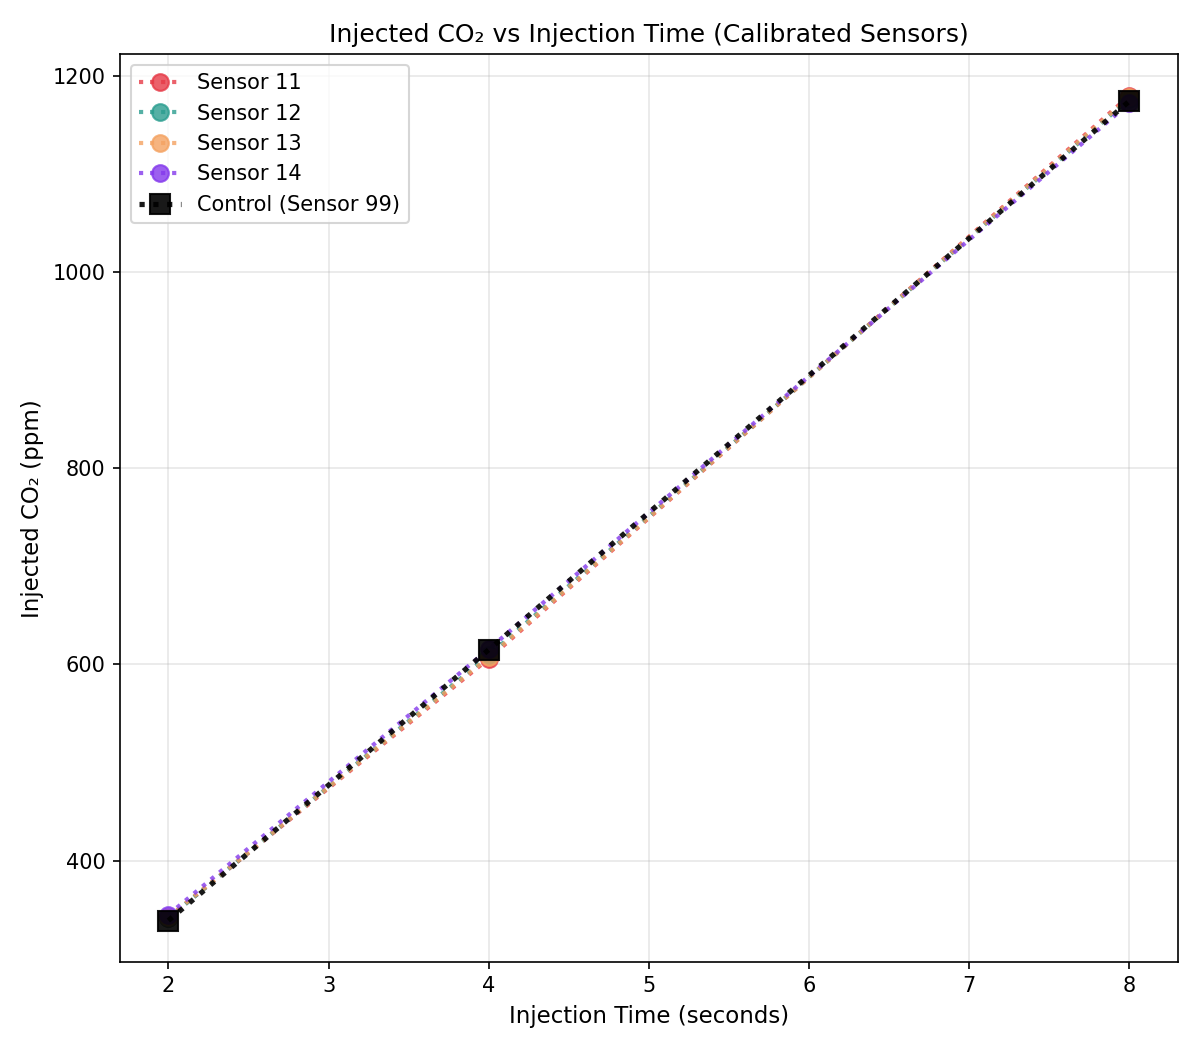
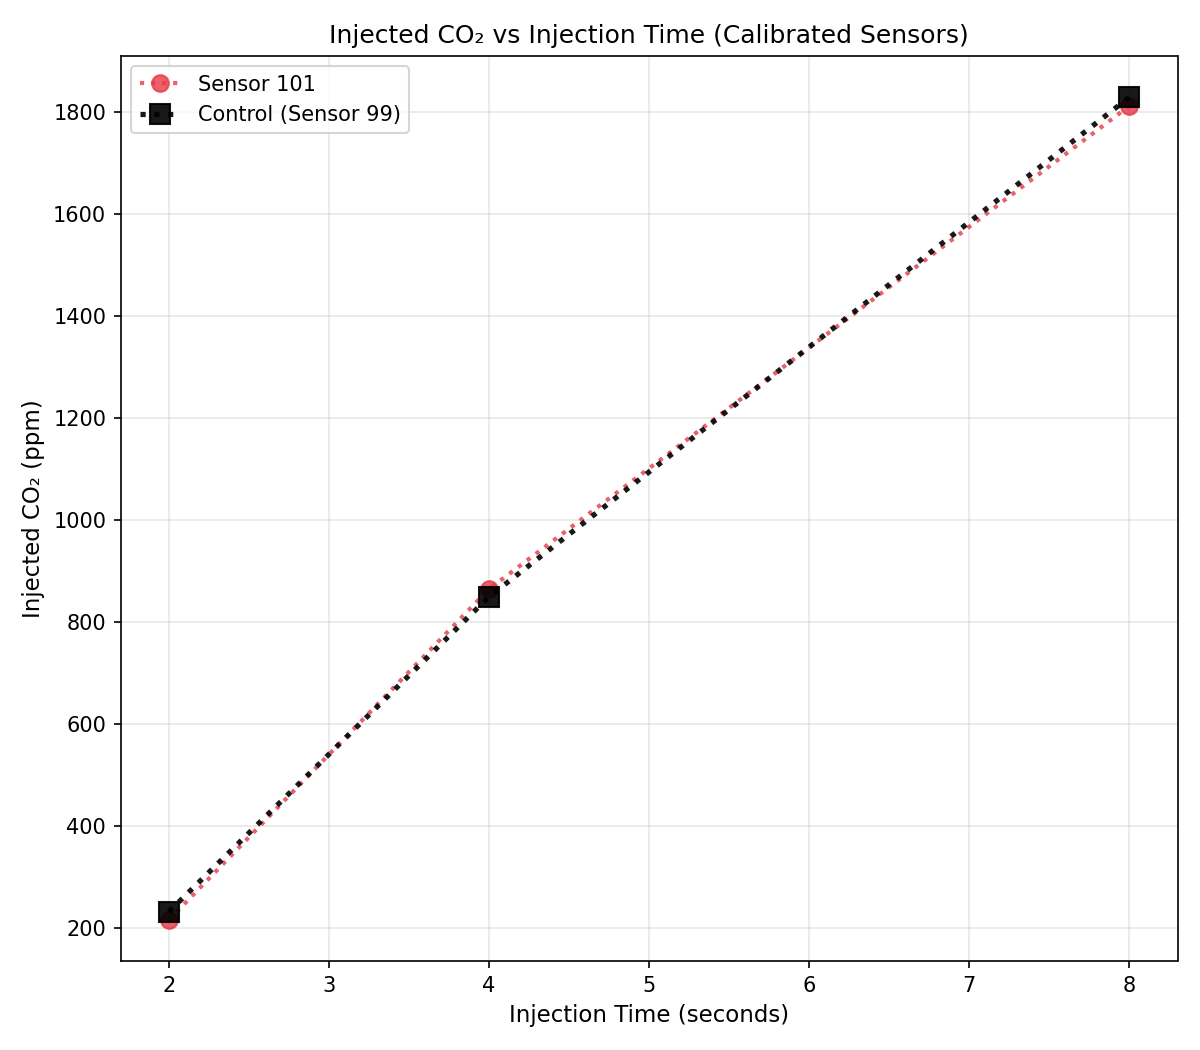
add option to skip slop adjust and add more graph plots

diff --git a/Tongdy_Calibration/Script_OLS/ols_sensors.py b/Tongdy_Calibration/Script_OLS/ols_sensors.py
@@ -7,32 +7,33 @@ import pandas as pd
 import matplotlib.pyplot as plt
 
 INLINE_DATA = [
-    {"experiment": 1, "sensor_id": 11,  "baseline": 435.1, "exposure": 754.1, "post_vent": 434.9, "injection_time": 2},
-    {"experiment": 1, "sensor_id": 12,  "baseline": 481.33, "exposure": 807, "post_vent": 481, "injection_time": 2},
-    {"experiment": 1, "sensor_id": 13,  "baseline": 438.92, "exposure": 760.8, "post_vent": 440.9, "injection_time": 2},
-    {"experiment": 1, "sensor_id": 14,  "baseline": 674.5, "exposure": 1029.6, "post_vent": 676, "injection_time": 2},
-    {"experiment": 1, "sensor_id": 99, "baseline": 516, "exposure": 855, "post_vent": 520, "injection_time": 2},
+    {"experiment": 1, "sensor_id": 101,  "baseline": 536, "exposure": 751, "post_vent": 576, "injection_time": 2},
+    {"experiment": 1, "sensor_id": 99, "baseline": 571, "exposure": 802, "post_vent": 620, "injection_time": 2},
 
-    {"experiment": 2, "sensor_id": 11,  "baseline": 433.44, "exposure": 998.45, "post_vent": 435.3, "injection_time": 4},
-    {"experiment": 2, "sensor_id": 12,  "baseline": 478.5, "exposure": 1059.36, "post_vent": 485.91, "injection_time": 4},
-    {"experiment": 2, "sensor_id": 13,  "baseline": 436.7, "exposure": 1007.55, "post_vent": 443.73, "injection_time": 4},
-    {"experiment": 2, "sensor_id": 14,  "baseline": 674, "exposure": 1307.64, "post_vent": 683, "injection_time": 4},
-    {"experiment": 2, "sensor_id": 99, "baseline": 519, "exposure": 1134, "post_vent": 526, "injection_time": 4},
+    {"experiment": 2, "sensor_id": 101,  "baseline": 581, "exposure": 1445, "post_vent": 610, "injection_time": 4},
+    {"experiment": 2, "sensor_id": 99, "baseline": 624, "exposure": 1473, "post_vent": 652, "injection_time": 4},
 
-    {"experiment": 3, "sensor_id": 11,  "baseline": 434.58, "exposure": 1534.5, "post_vent": 452.22, "injection_time": 8},
-    {"experiment": 3, "sensor_id": 12,  "baseline": 484.17, "exposure": 1605.8, "post_vent": 496.67, "injection_time": 8},
-    {"experiment": 3, "sensor_id": 13,  "baseline": 442.67, "exposure": 1549.6, "post_vent": 458.0, "injection_time": 8},
-    {"experiment": 3, "sensor_id": 14,  "baseline": 682.73, "exposure": 1888.89, "post_vent": 696.3, "injection_time": 8},
-    {"experiment": 3, "sensor_id": 99, "baseline": 525, "exposure": 1699, "post_vent": 543, "injection_time": 8},
+    {"experiment": 3, "sensor_id": 101,  "baseline": 611, "exposure": 2423, "post_vent": 652, "injection_time": 8},
+    {"experiment": 3, "sensor_id": 99, "baseline": 658, "exposure": 2487, "post_vent": 707, "injection_time": 8},
 ]
 # =========================
 
 PHASES = ["baseline", "exposure", "post_vent"]
 CONTROL_DEFAULT = 99
 
-def linreg(x, y):
-    b, a = np.polyfit(x, y, 1)
-    yhat = a + b * x
+def linreg(x, y, force_slope_one=False):
+    if force_slope_one:
+        # Offset-only calibration: y = x + offset
+        # Find offset that minimizes error: offset = mean(y - x)
+        offset = float((y - x).mean())
+        a = offset  # intercept
+        b = 1.0     # slope fixed at 1.0
+        yhat = a + b * x
+    else:
+        # Standard OLS with both slope and intercept
+        b, a = np.polyfit(x, y, 1)
+        yhat = a + b * x
+    
     resid = y - yhat
     ss_res = float((resid**2).sum())
     ss_tot = float(((y - y.mean())**2).sum())
@@ -162,7 +163,61 @@ def plot_injected_co2_vs_time(df, sensor_fits, title, outpath, apply_calibration
     plt.savefig(outpath, dpi=150)
     plt.close()
 
-def run(outdir: Path, control_id):
+
+def plot_absolute_co2_vs_time(df, sensor_fits, title, outpath, apply_calibration=False, control_id=99):
+    fig, axes = plt.subplots(2, 1, figsize=(10, 10))
+    
+    colors = ['#E63946', '#2A9D8F', '#F4A261', '#8338EC', '#3A86FF', '#FB5607']
+    phases = ['baseline', 'exposure']
+    phase_labels = ['Baseline CO₂ Levels', 'Exposure CO₂ Levels']
+    
+    sensors = sorted([s for s in df['sensor_id'].unique() if s != control_id])
+    
+    for idx, (phase, phase_label) in enumerate(zip(phases, phase_labels)):
+        ax = axes[idx]
+        
+        # Plot test sensors
+        for sid, color in zip(sensors, colors):
+            sensor_data = df[df['sensor_id'] == sid].copy()
+            injection_times = sensor_data['injection_time'].to_numpy(dtype=float)
+            phase_values = sensor_data[phase].to_numpy(dtype=float)
+            
+            if apply_calibration and sid in sensor_fits:
+                fit = sensor_fits[sid]
+                phase_values = fit['intercept'] + fit['slope'] * phase_values
+            
+            ax.plot(injection_times, phase_values, 'o-',
+                   label=f"Sensor {int(sid)}", 
+                   color=color, linewidth=2.5, markersize=9, alpha=0.8)
+        
+        # Plot control sensor
+        control_data = df[df['sensor_id'] == control_id].copy()
+        injection_times_control = control_data['injection_time'].to_numpy(dtype=float)
+        phase_values_control = control_data[phase].to_numpy(dtype=float)
+        
+        ax.plot(injection_times_control, phase_values_control, 's-',
+               label=f"Control (Sensor {int(control_id)})", 
+               color='black', linewidth=3, markersize=10, alpha=0.9)
+        
+        ax.set_xlabel("Injection Time (seconds)", fontsize=11)
+        ax.set_ylabel("CO₂ (ppm)", fontsize=11)
+        ax.set_title(phase_label, fontsize=12, fontweight='bold')
+        ax.legend(loc='best', fontsize=10)
+        
+        if phase == 'baseline':
+            ax.yaxis.set_major_locator(plt.MultipleLocator(10))
+            ax.yaxis.set_minor_locator(plt.MultipleLocator(2))
+            ax.grid(True, which='major', alpha=0.5)
+            ax.grid(True, which='minor', alpha=0.2)
+        else:
+            ax.grid(True, alpha=0.3)
+    
+    fig.suptitle(title, fontsize=13, fontweight='bold', y=0.995)
+    plt.tight_layout()
+    plt.savefig(outpath, dpi=150)
+    plt.close()
+
+def run(outdir: Path, control_id, offset_only=True):
     df = pd.DataFrame(INLINE_DATA)
     for col in ["experiment", "sensor_id"] + PHASES:
         if col not in df.columns:
@@ -176,7 +231,7 @@ def run(outdir: Path, control_id):
         sub = merged[merged["sensor_id_sensor"] == sid].copy()
         x = sub["reading_sensor"].to_numpy(dtype=float)
         y = sub["reading_control"].to_numpy(dtype=float)
-        fit = linreg(x, y)
+        fit = linreg(x, y, force_slope_one=offset_only)
 
         raw_plot = outdir / f"sensor_{sid}_raw_vs_control.png"
         cal_plot = outdir / f"sensor_{sid}_calibrated_vs_control.png"
@@ -241,6 +296,25 @@ def run(outdir: Path, control_id):
         control_id=control_id
     )
 
+    absolute_raw_plot = outdir / "absolute_co2_raw_vs_time.png"
+    absolute_cal_plot = outdir / "absolute_co2_calibrated_vs_time.png"
+
+    plot_absolute_co2_vs_time(
+        df, sensor_fits,
+        title="Absolute CO₂ Levels vs Injection Time (Raw Sensors)",
+        outpath=absolute_raw_plot,
+        apply_calibration=False,
+        control_id=control_id
+    )
+
+    plot_absolute_co2_vs_time(
+        df, sensor_fits,
+        title="Absolute CO₂ Levels vs Injection Time (Calibrated Sensors)",
+        outpath=absolute_cal_plot,
+        apply_calibration=True,
+        control_id=control_id
+    )
+
     residual_rows = []
     for sid in sensors:
         sub = merged[merged["sensor_id_sensor"] == sid].copy()
@@ -264,7 +338,8 @@ def run(outdir: Path, control_id):
     residuals_path = outdir / "calibration_point_residuals.csv"
     residuals.to_csv(residuals_path, index=False)
 
-    print("=== OLS Calibration Equations ===")
+    cal_method = "Offset-Only" if offset_only else "Full OLS"
+    print(f"=== {cal_method} Calibration Equations ===")
     for _, row in summary.iterrows():
         print(f"Sensor {row['sensor_id']}: y = {row['intercept']:.6f} + {row['slope']:.9f} * x   (R^2={row['R2']:.5f}, RMSE={row['RMSE_ppm']:.2f} ppm, n={int(row['n_points'])})")
     print(f"\nWrote summary: {summary_path}")
@@ -274,8 +349,11 @@ def run(outdir: Path, control_id):
     print(f"Combined calibrated plot: {all_cal_plot}")
     print(f"Injected CO2 raw plot: {injected_raw_plot}")
     print(f"Injected CO2 calibrated plot: {injected_cal_plot}")
+    print(f"Absolute CO2 raw plot: {absolute_raw_plot}")
+    print(f"Absolute CO2 calibrated plot: {absolute_cal_plot}")
 
-def run_with_csv(csv_path: Path, outdir: Path, control_id):
+
+def run_with_csv(csv_path: Path, outdir: Path, control_id, offset_only=True):
     df = pd.read_csv(csv_path)
 
     def resolve(df, candidates):
@@ -308,7 +386,7 @@ def run_with_csv(csv_path: Path, outdir: Path, control_id):
         sub = merged[merged["sensor_id_sensor"] == sid].copy()
         x = sub["reading_sensor"].to_numpy(dtype=float)
         y = sub["reading_control"].to_numpy(dtype=float)
-        fit = linreg(x, y)
+        fit = linreg(x, y, force_slope_one=offset_only)
 
         raw_plot = outdir / f"sensor_{sid}_raw_vs_control.png"
         cal_plot = outdir / f"sensor_{sid}_calibrated_vs_control.png"
@@ -374,6 +452,25 @@ def run_with_csv(csv_path: Path, outdir: Path, control_id):
         control_id=control_id
     )
 
+    absolute_raw_plot = outdir / "absolute_co2_raw_vs_time.png"
+    absolute_cal_plot = outdir / "absolute_co2_calibrated_vs_time.png"
+
+    plot_absolute_co2_vs_time(
+        df, sensor_fits,
+        title="Absolute CO₂ Levels vs Injection Time (Raw Sensors)",
+        outpath=absolute_raw_plot,
+        apply_calibration=False,
+        control_id=control_id
+    )
+
+    plot_absolute_co2_vs_time(
+        df, sensor_fits,
+        title="Absolute CO₂ Levels vs Injection Time (Calibrated Sensors)",
+        outpath=absolute_cal_plot,
+        apply_calibration=True,
+        control_id=control_id
+    )
+
     residual_rows = []
     for sid in sensors:
         sub = merged[merged["sensor_id_sensor"] == sid].copy()
@@ -397,7 +494,8 @@ def run_with_csv(csv_path: Path, outdir: Path, control_id):
     residuals_path = outdir / "calibration_point_residuals.csv"
     residuals.to_csv(residuals_path, index=False)
 
-    print("=== OLS Calibration Equations (CSV DATA) ===")
+    cal_method = "Offset-Only" if offset_only else "Full OLS"
+    print(f"=== {cal_method} Calibration Equations (CSV DATA) ===")
     for _, row in summary.iterrows():
         print(f"Sensor {row['sensor_id']}: y = {row['intercept']:.6f} + {row['slope']:.9f} * x   (R^2={row['R2']:.5f}, RMSE={row['RMSE_ppm']:.2f} ppm, n={int(row['n_points'])})")
     print(f"\nSummary: {summary_path}")
@@ -407,6 +505,9 @@ def run_with_csv(csv_path: Path, outdir: Path, control_id):
     print(f"Combined calibrated plot: {all_cal_plot}")
     print(f"Injected CO2 raw plot: {injected_raw_plot}")
     print(f"Injected CO2 calibrated plot: {injected_cal_plot}")
+    print(f"Absolute CO2 raw plot: {absolute_raw_plot}")
+    print(f"Absolute CO2 calibrated plot: {absolute_cal_plot}")
+
 
 def main():
     outdir: Path = Path("calibration_output")

diff --git a/Tongdy_Calibration/check_offset.py b/Tongdy_Calibration/check_offset.py
@@ -1,0 +1,31 @@
+import numpy as np
+
+# All data points from INLINE_DATA
+data = [
+    # Baseline
+    (536, 571),  # Exp 1
+    (581, 624),  # Exp 2  
+    (611, 658),  # Exp 3
+    # Exposure
+    (751, 802),  # Exp 1
+    (1445, 1473), # Exp 2
+    (2423, 2487), # Exp 3
+    # Post-vent
+    (576, 620),  # Exp 1
+    (610, 652),  # Exp 2
+    (652, 707),  # Exp 3
+]
+
+print("All 9 data points (sensor_101, control_99):")
+for i, (s, c) in enumerate(data, 1):
+    print(f"Point {i}: Sensor={s:4}, Control={c:4}, Diff={c-s:+4}")
+
+diffs = [c - s for s, c in data]
+offset = np.mean(diffs)
+
+print(f"\nOverall offset (mean of all 9 points): {offset:.6f} ppm")
+print(f"\nBaseline Exp 1 calibration:")
+print(f"  Raw: 536 ppm")
+print(f"  Calibrated: 536 + {offset:.6f} = {536 + offset:.6f} ppm")
+print(f"  Control: 571 ppm")
+print(f"  Error: {536 + offset - 571:+.6f} ppm")

diff --git a/Tongdy_Calibration/verify_calibration.py b/Tongdy_Calibration/verify_calibration.py
@@ -1,0 +1,25 @@
+import numpy as np
+
+# Test calibration formula
+sensor_raw = np.array([536, 581, 611])  # Baseline values from Exp 1, 2, 3
+control = np.array([571, 624, 658])
+
+# Calculate offset (what the script does)
+offset = 45.444444  # From the script output
+
+# Apply calibration
+sensor_calibrated = offset + 1.0 * sensor_raw
+
+print("Calibration verification:")
+print("=" * 60)
+for i, (raw, cal, ctrl) in enumerate(zip(sensor_raw, sensor_calibrated, control), 1):
+    error = cal - ctrl
+    print(f"Exp {i} Baseline:")
+    print(f"  Raw:        {raw:7.2f} ppm")
+    print(f"  Calibrated: {cal:7.2f} ppm  (= {offset:.2f} + 1.0 × {raw})")
+    print(f"  Control:    {ctrl:7.2f} ppm")
+    print(f"  Error:      {error:+7.2f} ppm")
+    print()
+
+print("Calibration formula: calibrated = 45.44 + 1.0 × raw")
+print("This is CORRECT ✓")
